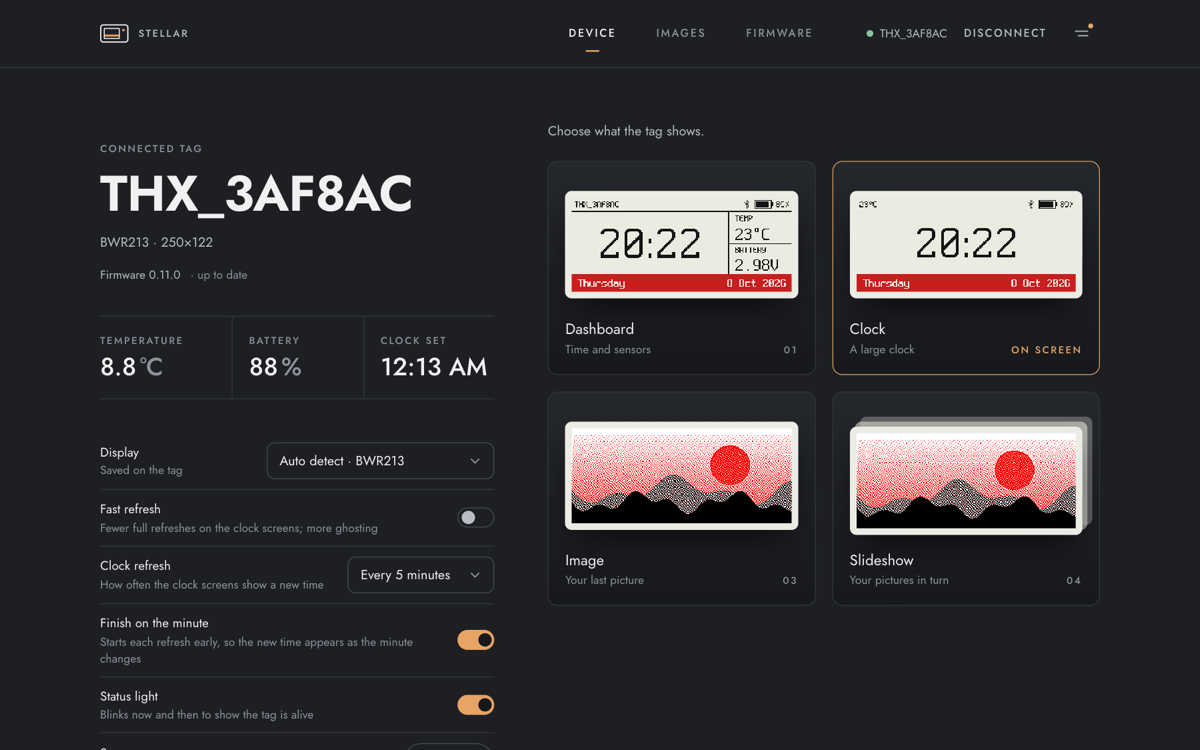
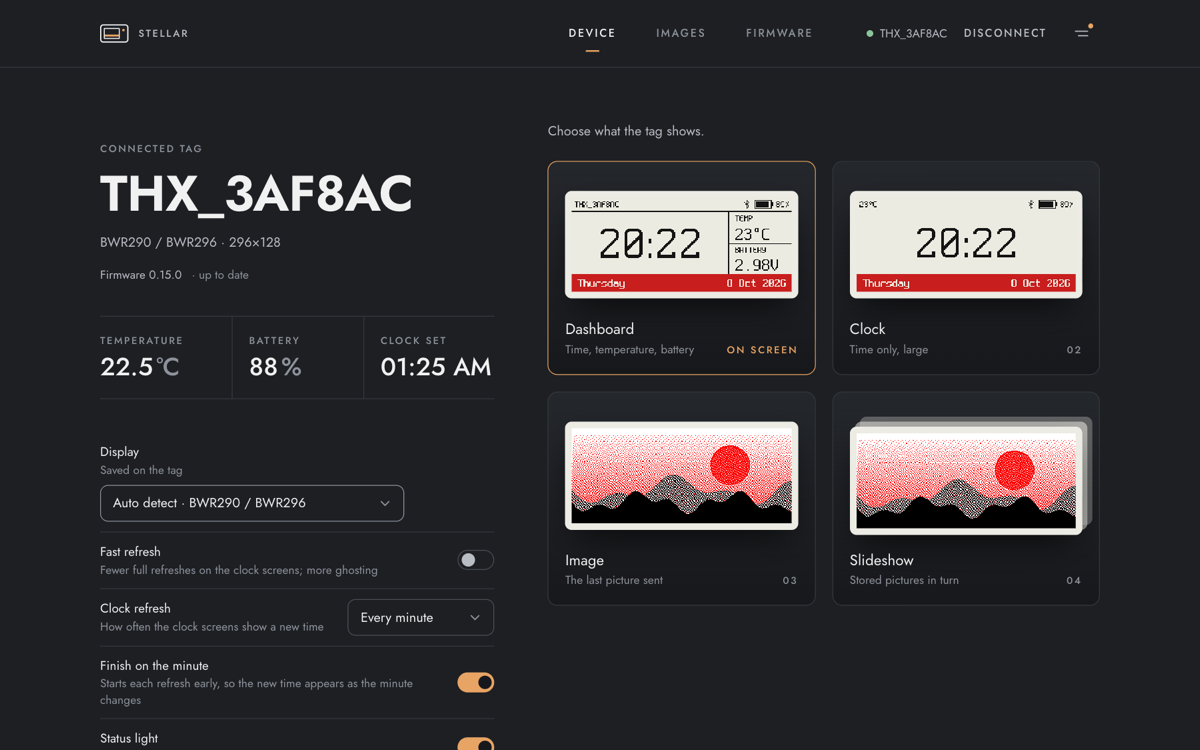
fix(web): plain headings and captions instead of slogans
The start page headline, the Images and Firmware page headings, the screen
captions and a few status messages now say what they are. The README
banner, intro and feature headings follow, with new web tool screenshots.

diff --git a/web_tools/src/components/device/SceneCards.svelte b/web_tools/src/components/device/SceneCards.svelte
@@ -12,10 +12,10 @@
 	let { interactive, active, onselect }: Props = $props();
 
 	const screens: Record<number, { src: string; caption: string }> = {
-		2: { src: dashboardScreen, caption: 'Time and sensors' },
-		1: { src: clockScreen, caption: 'A large clock' },
-		0: { src: imageScreen, caption: 'Your last picture' },
-		3: { src: imageScreen, caption: 'Your pictures in turn' }
+		2: { src: dashboardScreen, caption: 'Time, temperature, battery' },
+		1: { src: clockScreen, caption: 'Time only, large' },
+		0: { src: imageScreen, caption: 'The last picture sent' },
+		3: { src: imageScreen, caption: 'Stored pictures in turn' }
 	};
 </script>
 

diff --git a/web_tools/src/components/firmware/SerialFlashCard.svelte b/web_tools/src/components/firmware/SerialFlashCard.svelte
@@ -47,7 +47,7 @@
 			await flasher.open(Number(baudRate));
 			status = file
 				? 'Ready. Unlock the flash, then write the firmware.'
-				: 'Now choose a firmware file.';
+				: 'Choose a firmware file.';
 		} catch (error) {
 			logStore.addLog('Serial port: ' + errorText(error));
 			status = 'Could not open the serial port.';
@@ -60,7 +60,7 @@
 			await action();
 		} catch (error) {
 			logStore.addLog('Serial flashing: ' + errorText(error));
-			status = 'That did not work; see the activity log.';
+			status = 'Flashing failed; see the activity log.';
 		} finally {
 			busy = false;
 		}

diff --git a/web_tools/src/components/device/DeviceView.svelte b/web_tools/src/components/device/DeviceView.svelte
@@ -51,8 +51,8 @@
 			<DeviceSettings />
 		{:else}
 			<div class="flex flex-col gap-8">
-				<p class="eyebrow">Hanshow Stellar e-paper tags</p>
-				<h1 class="display text-5xl sm:text-7xl">E-paper,<br />from the browser.</h1>
+				<p class="eyebrow">Not connected</p>
+				<h1 class="display text-5xl sm:text-7xl">Hanshow Stellar tags</h1>
 				<p class="max-w-sm text-lg leading-relaxed text-soft">
 					Connect a tag over Bluetooth to choose what it shows, send it pictures and update its
 					firmware.

diff --git a/web_tools/src/components/firmware/FirmwareView.svelte b/web_tools/src/components/firmware/FirmwareView.svelte
@@ -6,7 +6,7 @@
 <div class="flex flex-col gap-12">
 	<div class="flex flex-col gap-4">
 		<p class="eyebrow">Firmware</p>
-		<h1 class="display text-4xl sm:text-5xl">Keep the tag up to date.</h1>
+		<h1 class="display text-4xl sm:text-5xl">Install and update</h1>
 		<p class="max-w-xl text-soft">
 			Pick a release, or a <code class="font-mono text-sm text-fg">.bin</code> file of your own.
 			Tags running this firmware update over Bluetooth; a tag still on its original firmware needs

diff --git a/web_tools/src/components/images/ImagesView.svelte b/web_tools/src/components/images/ImagesView.svelte
@@ -146,7 +146,7 @@
 	<section class="flex min-w-0 flex-col gap-8">
 		<div class="flex flex-col gap-4">
 			<p class="eyebrow">Images</p>
-			<h1 class="display text-4xl sm:text-5xl">Pictures for the tag.</h1>
+			<h1 class="display text-4xl sm:text-5xl">Send pictures</h1>
 			<p class="max-w-xl text-soft">
 				Converted for the {store.deviceModelName} display ({store.displayWidth}×{store.displayHeight}).
 				Add one picture, or up to {maxImages} for a slideshow.

diff --git a/web_tools/src/components/LogDrawer.svelte b/web_tools/src/components/LogDrawer.svelte
@@ -31,7 +31,7 @@
 			<li class="border-b border-line/50 py-1 break-words">{log}</li>
 		{:else}
 			<li class="text-muted">
-				Nothing yet. Connecting, uploads and replies from the tag show up here.
+				No entries. Connection steps, uploads and replies from the tag are listed here.
 			</li>
 		{/each}
 	</ol>

diff --git a/readme.md b/readme.md
@@ -1,6 +1,6 @@
 <div align="center">
 
-<img src="images/banner.svg" width="100%" alt="Stellar: e-paper, from the browser">
+<img src="images/banner.svg" width="100%" alt="Stellar firmware and web tool">
 
 <br>
 <br>
@@ -23,13 +23,13 @@
 
 Custom firmware for **Hanshow Stellar** electronic shelf labels, built on the Telink TLSR8359
 Bluetooth chip, and a web tool that manages them from the browser.<br>
-A clock dashboard, your own pictures or a slideshow, on black, white and red e-paper.
+Screens: a dashboard, a clock, the last picture sent, or a slideshow.
 
 </div>
 
 <br>
 
-## Highlights
+## Features
 
 <table>
   <tr>
@@ -39,29 +39,29 @@ A clock dashboard, your own pictures or a slideshow, on black, white and red e-p
       slideshow. Only redrawn when something changed.
     </td>
     <td width="33%" valign="top">
-      <h4>Your pictures</h4>
+      <h4>Pictures</h4>
       Dithered in the browser for the panel's colors, up to 22 stored on the tag. Change the
       slideshow interval without uploading again.
     </td>
     <td width="33%" valign="top">
-      <h4>No app to install</h4>
+      <h4>Browser setup</h4>
       Everything runs in Chrome or Edge over Web Bluetooth; the first install uses Web Serial and a
       USB adapter.
     </td>
   </tr>
   <tr>
     <td valign="top">
-      <h4>Safe updates</h4>
+      <h4>Dual-bank updates</h4>
       Two firmware banks: an update is written next to the running firmware and only started once
       its checksum matches.
     </td>
     <td valign="top">
-      <h4>A clock that keeps time</h4>
+      <h4>Timekeeping</h4>
       Time zone and daylight saving rules for the next years, and a drift correction learned from
       every sync.
     </td>
     <td valign="top">
-      <h4>Sensors on the air</h4>
+      <h4>Sensor advertising</h4>
       Temperature, battery percentage and voltage advertised in the ATC1441 format, readable
       without connecting.
     </td>
@@ -129,7 +129,14 @@ run the tool locally, with Node 22.17 or later: `cd web_tools && yarn install &&
 | --- | --- | :---: |
 | Stellar L3N@ 2.9" | BWR296, 296×128, black/white/red | ✓ |
 | Stellar Pro 213R-N | BWR213, 250×122, black/white/red | ✓ |
+| Stellar 213Q-N (experimental) | BWRY213, 250×122, black/white/red/yellow | |
 | Other Stellar tags with these panels | see [Display models](#display-models) | |
+
+The Stellar 213Q-N (four-colour panel, JD79661 controller) sits on a newer Hanshow board whose panel
+is wired to different pins. Bluetooth works on it with any model, but the screen only refreshes once
+model 7 is selected on the Device page, which switches the firmware to that wiring. The wiring and
+the panel driver come from other projects' work on the same board generation and have not been
+confirmed on a 213Q-N yet.
 
 `Compatible_models/` has photos of other Stellar variants.
 
@@ -286,10 +293,16 @@ UUID 0x181A).
 | 4 | 213ICE | 212×104 | black/white | SSD16xx |
 | 5 | BWR290 / BWR296 (Stellar L3N@, 290R-N) | 296×128 | black/white/red | SSD16xx |
 | 6 | BW290 / BW296 | 296×128 | black/white | SSD16xx |
+| 7 | BWRY213 (Stellar 213Q-N), experimental | 250×122 | black/white/red/yellow | JD79661 |
 
 Auto-detect only tells the two controller families apart (by the level the BUSY pin idles at after
-a reset) and picks model 5 or 2. Black/white panels, the 2.13" ICE and the 1.54" have to be chosen
-in the web tool; the choice is saved.
+a reset) and picks model 5 or 2. Black/white panels, the 2.13" ICE, the 1.54" and the four-colour
+2.13" have to be chosen in the web tool; the choice is saved.
+
+Model 7 also switches the panel and LED pins to the newer Hanshow board (RST PD4, DC PB7, BUSY PA1,
+CS PD2, CLK PD7, MOSI PB6, panel power PB5, red LED PB4). The panel has no partial refresh, so fast
+refresh is unavailable and every refresh is full. Images keep the two planes of the other panels: a
+pixel set in both the white and the red plane is yellow.
 
 The 2.13" panels show 122 rows, but their controller keeps 128 per column. Frames (and uploaded
 images) are sent as columns of whole bytes, rightmost column first, top pixel in the most
